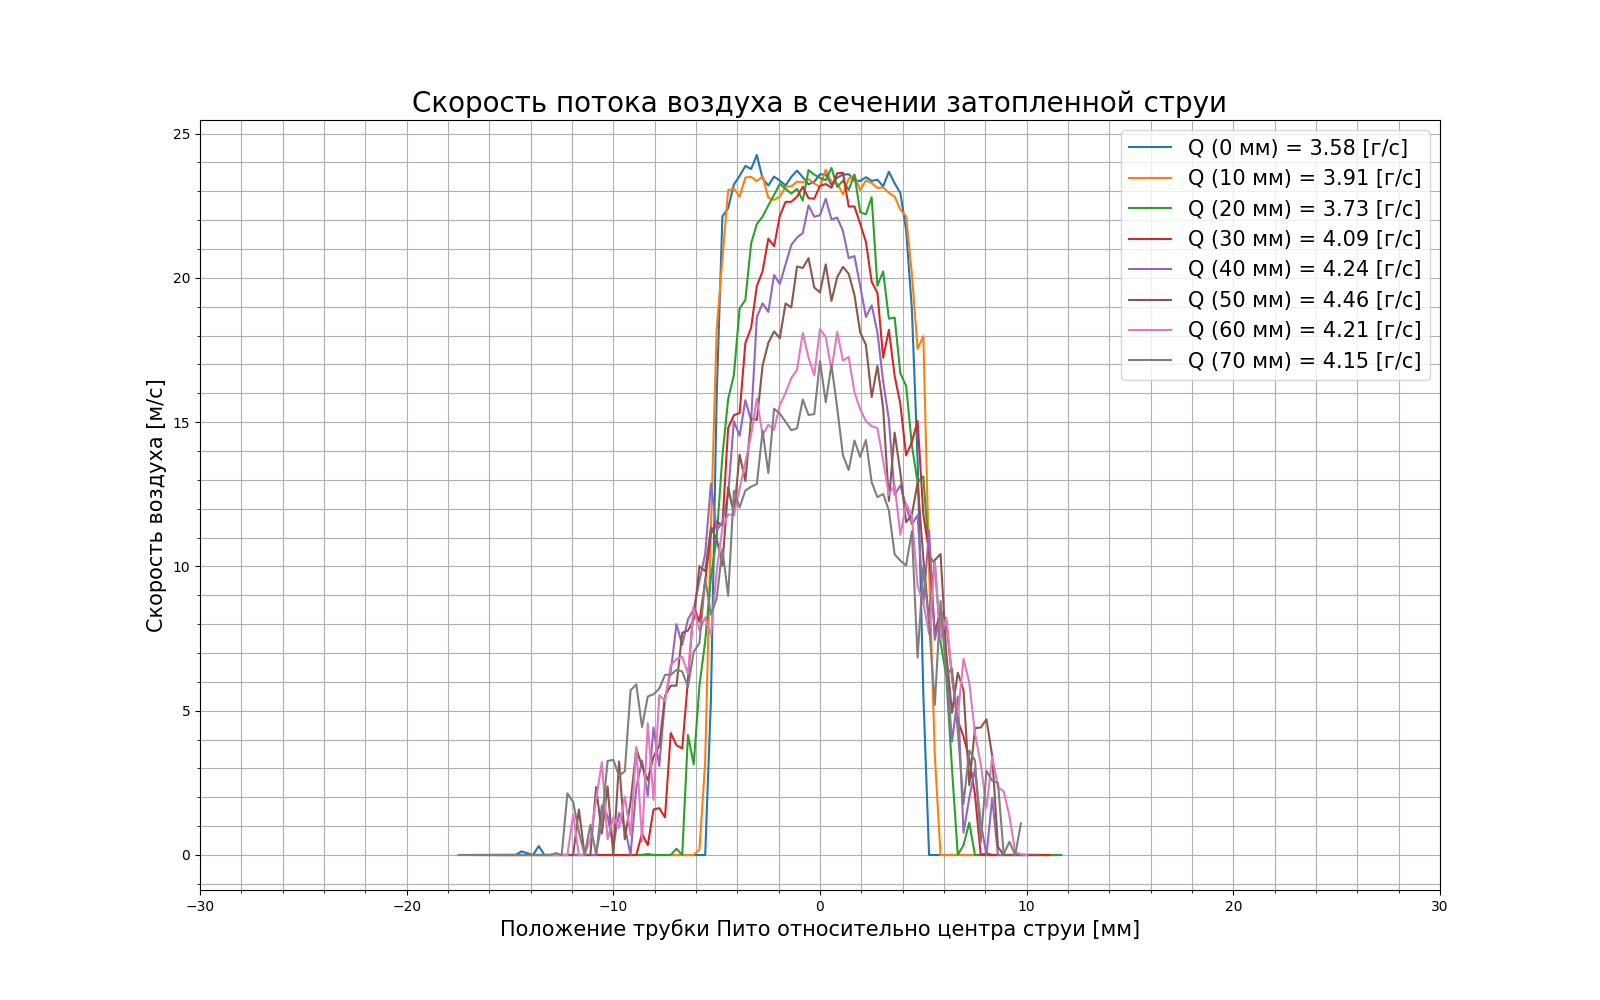
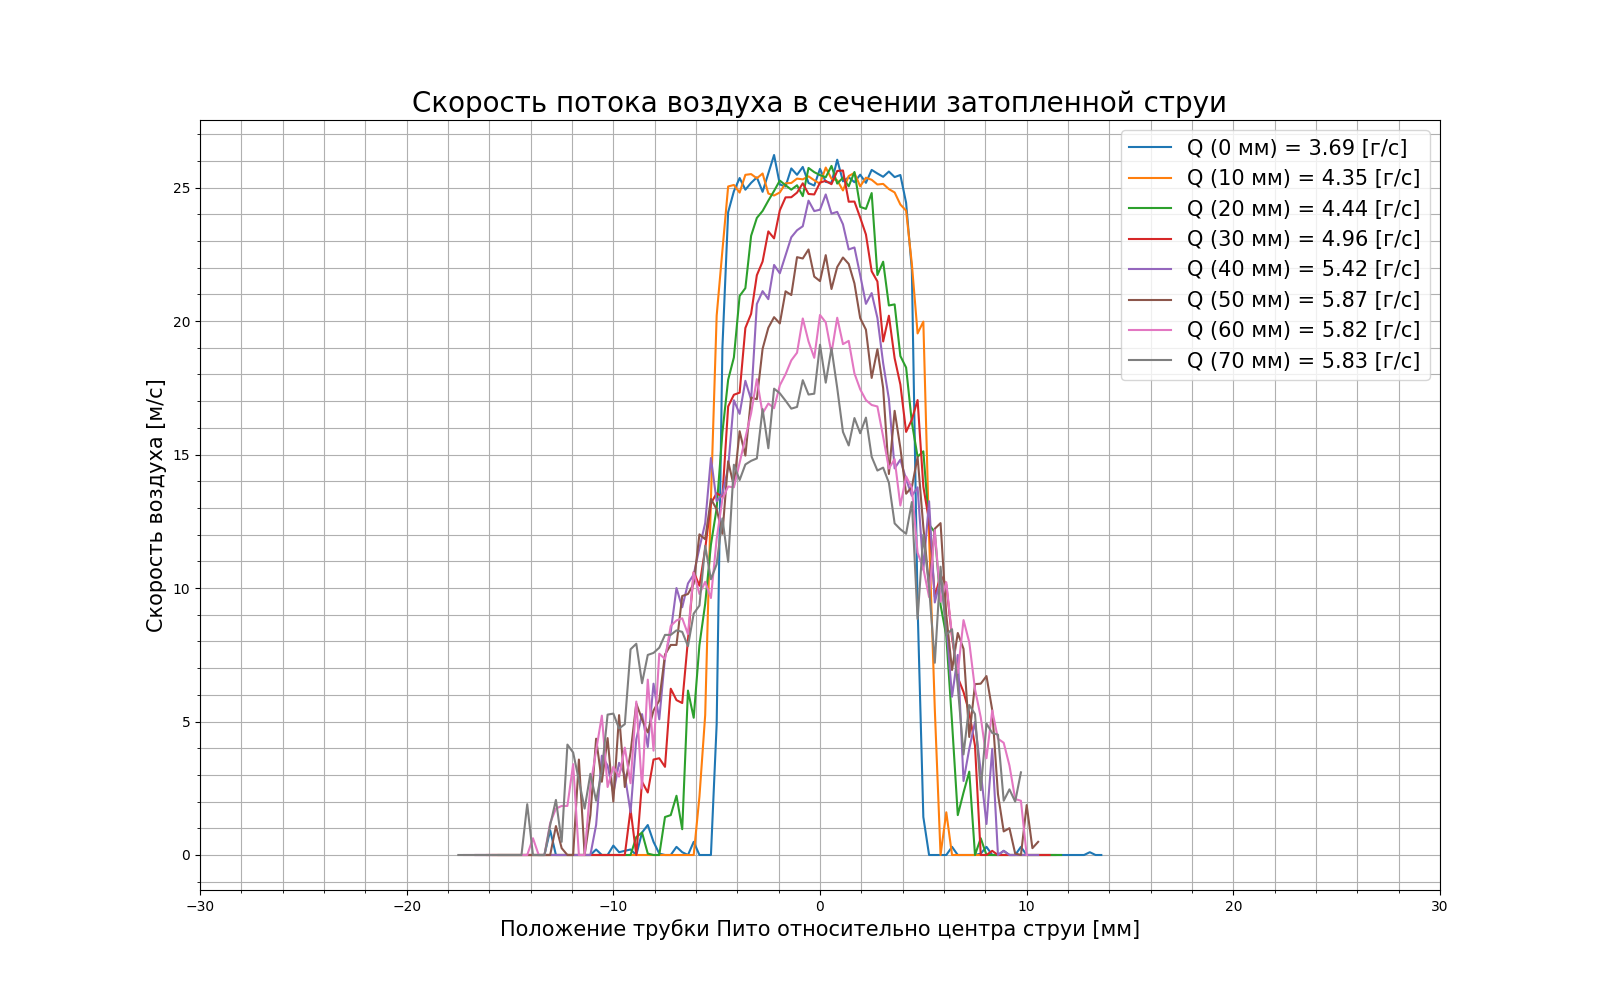
new 0 data

Changed region(s): [[0.3125, 0.155, 0.6562, 0.868], [0.75, 0.124, 0.9062, 0.372]]

diff --git a/jet/sripts/data_processing.py b/jet/sripts/data_processing.py
@@ -17,7 +17,7 @@ def read(filename): #считать данные из файла
 def get_velocity(value):
     pres = 0.16 * value - 157.9
     if (pres) < 0: pres = 0
-    vel = (2*pres)**0.5 - 5
+    vel = (2*pres)**0.5 - 3
     if vel < 0: vel = 0
     return vel
 
@@ -34,6 +34,9 @@ consumption = []
 for i in range(len(files)):  # списки названий необходимых файлов
     if (not clbr.search(files[i]) and jet.search(files[i]) and nums.search(files[i])):
         datafiles.append(files[i])
+
+datafiles = sorted(datafiles)
+print(datafiles)
 
 fig, ax = plt.subplots(figsize=(16, 10), dpi=100)
 ax.set_title("Скорость потока воздуха в сечении затопленной струи", fontsize = 20)
